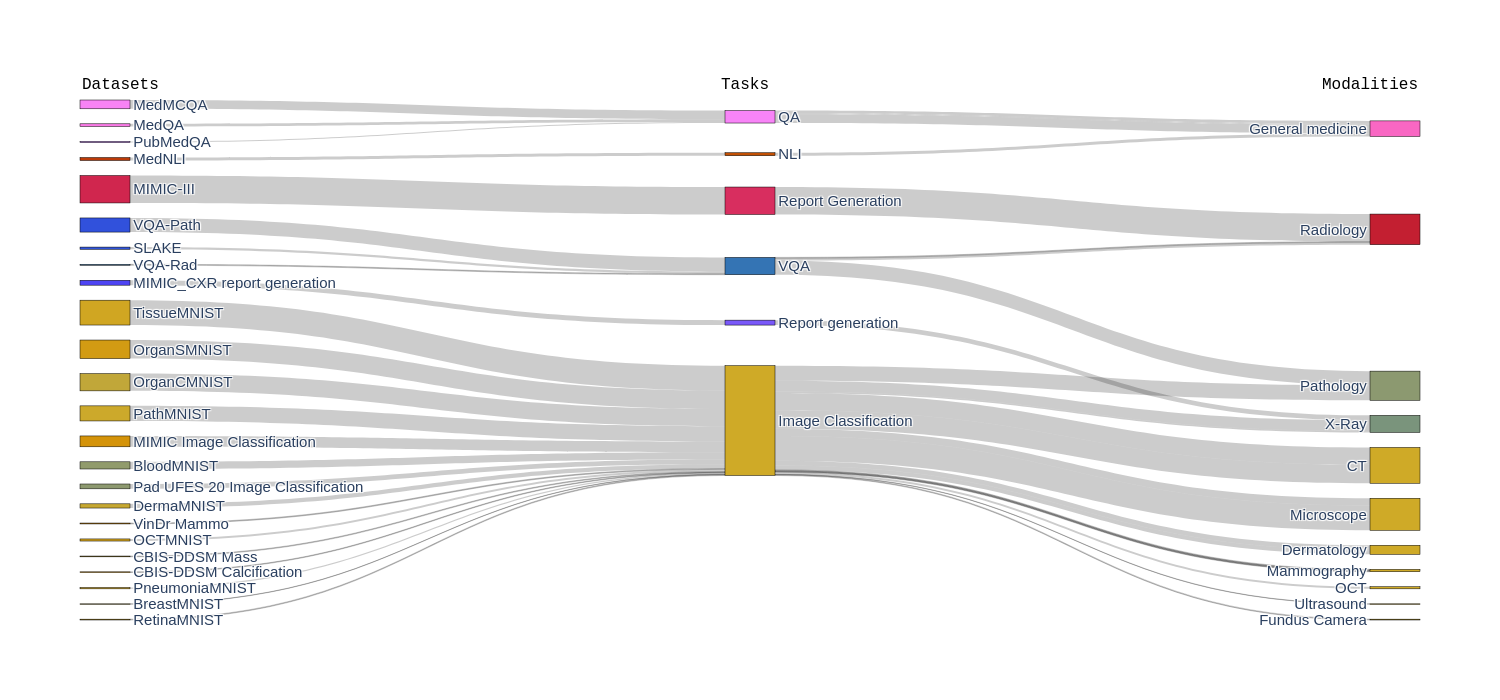
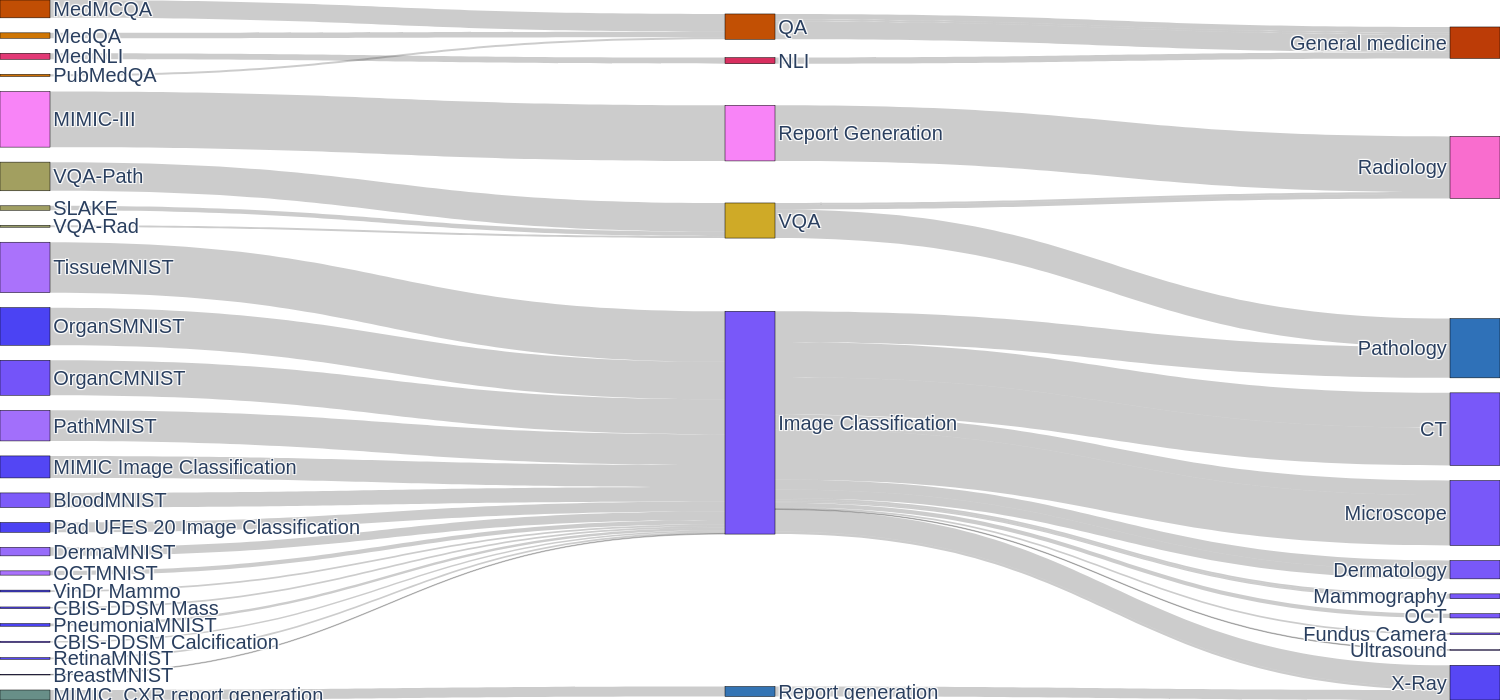
Updated Readme

diff --git a/multimedbench/visualization.py b/multimedbench/visualization.py
@@ -272,7 +272,11 @@ class BenchmarkVisualizer:
                 "visible": False,  # numbers below
             },
             plot_bgcolor="rgba(0,0,0,0)",
-            font_size=15,
+            font_size=20,
         )
+
+        # Reduce margins
+        fig.update_layout(margin=dict(t=1, l=0.5, r=2, b=0))
+        # Increase font size of the labels
 
         fig.write_image(Path(self.folderName, "sankey.png"), scale=1.0, width=1500, height=700)

diff --git a/readme.md b/readme.md
@@ -7,20 +7,32 @@ We include 12 tasks representing a range of different imaging modalities.
 
 ## Tasks
 
-| Task                           | Description                                                                                       | Modality       | Size
-|--------------------------------|---------------------------------------------------------------------------------------------------|----------------|----------
-| MedQA                          | Multiple choice questions on general medical knowledge                                            | Text           |
-| PubMedQA                       | Yes/no/maybe questions based on PubMed paper abstracts                                            | Text           |
-| MedMCQA                        | Multiple choice questions on general medical knowledge                                            | Text           |
-| MIMIC-CXR-ReportGeneration     | Generation of finding sections of radiology reports based on the radiology images                 | Chest X-ray    |
-| VQA-RAD                        | Open ended questions on radiology images                                                          | X-ray          |
-| Path-VQA                       | Open ended questions on pathology images                                                          | Pathology      |
-| SLAKE                          | Open ended questions on radiology images                                                          | X-ray          |
-| MIMIC-CXR-ImageClassification  | Classification of radiology images into 5 diseases                                                | Chest X-ray    |
-| VinDr-Mammo                    | Classification of mammography images into 5 BIRADS levels                                         | Mammography    |
-| Pad-UFES-20                    | Classification of skin lesion images into 7 diseases                                              | Dermatology    |
-| CBIS-DDSM                      | Classification of mammography images into "benign", "malignant" or "benign without callback"      | Mammography    |
-| MIMIC-III                      | Summarization of radiology reports                                                                | Text           |
+| Task                           | Description                                                                                                        | Modality       | Size
+|--------------------------------|--------------------------------------------------------------------------------------------------------------------|----------------|----------
+| MedQA                          | Multiple choice questions on general medical knowledge                                                             | Text           |
+| PubMedQA                       | Yes/no/maybe questions based on PubMed paper abstracts                                                             | Text           |
+| MedMCQA                        | Multiple choice questions on general medical knowledge                                                             | Text           |
+| MIMIC-CXR-ReportGeneration     | Generation of finding sections of radiology reports based on the radiology images                                  | Chest X-ray    |
+| VQA-RAD                        | Open ended questions on radiology images                                                                           | X-ray          |
+| Path-VQA                       | Open ended questions on pathology images                                                                           | Pathology      |
+| SLAKE                          | Open ended questions on radiology images                                                                           | X-ray          |
+| MIMIC-CXR-ImageClassification  | Classification of radiology images into 5 diseases                                                                 | Chest X-ray    |
+| VinDr-Mammo                    | Classification of mammography images into 5 BIRADS levels                                                          | Mammography    |
+| Pad-UFES-20                    | Classification of skin lesion images into 7 diseases                                                               | Dermatology    |
+| CBIS-DDSM-Mass                 | Classification of masses in mammography images into "benign", "malignant" or "benign without callback"             | Mammography    |
+| CBIS-DDSM-Calcification        | Classification of calcification in mammography images into "benign", "malignant" or "benign without callback"      | Mammography    |
+| MIMIC-III                      | Summarization of radiology reports                                                                                 | Text           |
+| MedNLI                         | Natural Language Inference on medical sentences.                                                                   | Text           |
+| MNIST-Oct                      |                                                                                                                    | OCT            |
+| MNIST-Path                     |                                                                                                                    | Pathology      |
+| MNIST-Blood                    |                                                                                                                    | Microscopy     |
+| MNIST-Breast                   |                                                                                                                    | Mammography    |
+| MNIST-Derma                    |                                                                                                                    | Dermatology    |
+| MNIST-OrganC                   |                                                                                                                    | CT             |
+| MNIST-OrganS                   |                                                                                                                    | CT             |
+| MNIST-Pneumonia                |                                                                                                                    | X-Ray          |
+| MNIST-Retina                   |                                                                                                                    | Fondus Camera  |
+| MNIST-Tissue                   |                                                                                                                    | Microscopy     |
 
 <!-- <p align="center">
     <img src="dataset_stats/modalities.png" alt="modality sunburst graph" style="margin-right: 2.5%;" width="40%">
@@ -49,10 +61,10 @@ The setup script needs a configuration file containing the destination folder fo
 ```json
 {
   "huggingfaceCacheDir": {"path": ""},
-  "physionet": {"path": ""},
+  "physionet": {"path": "", "username": "", "password": ""},
   "SLAKE": {"path": ""},
-  "MIMIC-CXR": {"path":"/PATH/mimic-cxr-jpg/2.0.0"},
-  "RadGraph": {"dlLocation": ""},
+  "MIMIC-CXR": {"path":"/PATH/TO/DOCUMENTS/"}, // Optional (will download to physionet folder if the line is not present): example if /PATH/TO/DOCUMENTS/mimic-cxr-jpg/2.0.0
+  "SLAKE": {"path": ""},
   "CheXBert": {"dlLocation": ""},
   "Pad-UFES-20": {"path": ""},
   "CBIS-DDSM": {"path": ""},
@@ -70,7 +82,7 @@ from multimedbench import MMB, Params
 engine = MMB()
 ```
 
-During the setup process, the script will ask for a Physionet password to download "VinDr-Mammo", "MIMIC-CXR" and "MIMIC-III".
+During the setup process, the script will need a Physionet username and password to download "VinDr-Mammo", "MIMIC-CXR" and "MIMIC-III".
 You also need to setup Kaggle on your machine before running the setup as the "CBIS-DDSM" is hosted on Kaggle.
 
 At the end of the setup process, you will see a summary of which tasks are ready and which didn't run properly.
@@ -133,7 +145,7 @@ class batcherMistral:
         return answers
 ```
 
-To run the benchmark, call the `eval` method of the `MMB` class.
+To run the benchmark, call the `eval` method of the `MMB` class with the list of tasks to benchmark on. If the list is empty, all the tasks will be benchmarked.
 
 ```python
 from multimedbench import MMB, Params
